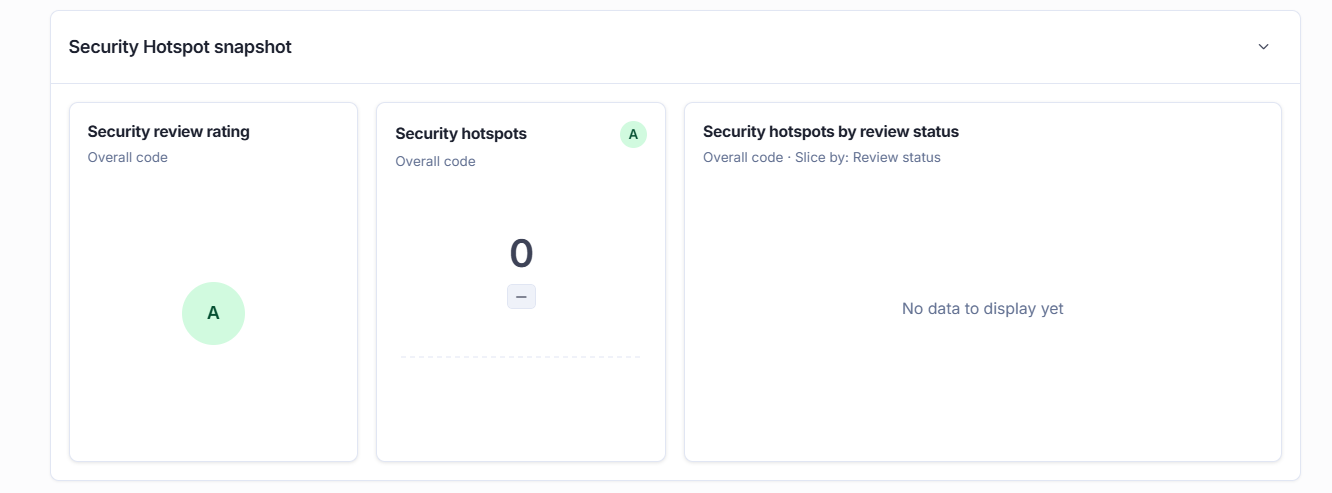
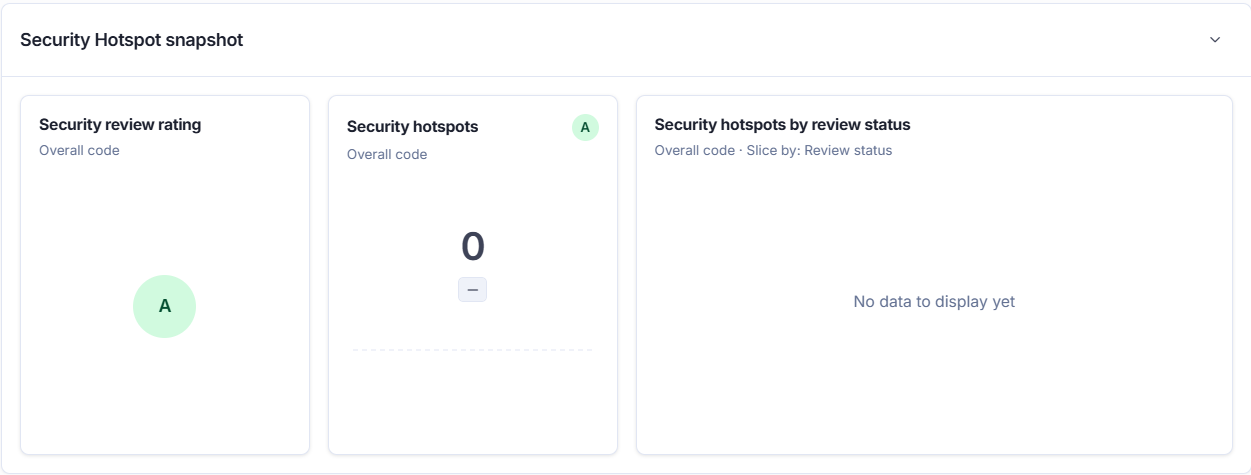
docs(report): refresh §9's SonarQube numbers and screenshots for 3 Nov
Re-ran the scan now that Booking is fully merged. Coverage moved
95.8% -> 96.3%. Still the same 2 OffPeakPlan issues as the documented
false positive, nothing new. Fixed the Maintainability row too: the
dashboard counts those same 2 issues under Maintainability's impact
model now, so "0 code smells" was stale wording, not a real 0.
Replaced all 5 screenshots with fresh captures.

diff --git a/report/sections/09-added-value.md b/report/sections/09-added-value.md
@@ -36,19 +36,19 @@ Booking (Bharat's feature) was still being built when I picked these two classes
 
 ## SonarQube Cloud
 
-SonarQube Cloud now runs inside CI's `metrics` job, after the coverage and PMD gates, using a `SONAR_TOKEN` secret. There isn't a real before/after pair for this one the way there is for PMD/CK, Sonar wasn't even wired in until after both refactors above were already merged. A "before" snapshot would mean checking out an old commit by hand just to fake a number, which isn't something I wanted to do. So what's below is the first real scan, plus what's changed in the three days since.
+SonarQube Cloud now runs inside CI's `metrics` job, after the coverage and PMD gates, using a `SONAR_TOKEN` secret. There isn't a real before/after pair for this one the way there is for PMD/CK, Sonar wasn't even wired in until after both refactors above were already merged. A "before" snapshot would mean checking out an old commit by hand just to fake a number, which isn't something I wanted to do. So what's below is that first real scan, refreshed again on 3 Nov once Booking was fully merged in.
 
 | Metric | Value |
 | --- | --- |
 | Quality gate | Passed |
-| Coverage | 95.8% |
+| Coverage | 96.3% |
 | Duplication | 0.0% |
 | Security rating | A (0 vulnerabilities) |
 | Security review rating | A (0 hotspots) |
-| Maintainability rating | A (0 code smells) |
+| Maintainability rating | A (2 issues, same OffPeakPlan pair as Reliability) |
 | Reliability rating | D (2 issues) |
 
-![SonarQube Cloud overview: public project, quality gate passed, 2 issues, 0% duplication, 95.8% coverage](../screenshots/sonarqube-overview.png){width=100%}
+![SonarQube Cloud overview: public project, quality gate passed, 2 issues, 0% duplication, 96.3% coverage](../screenshots/sonarqube-overview.png){width=100%}
 
 Security, Security Hotspots and Maintainability all came back A, so there's nothing really to explain there:
 
